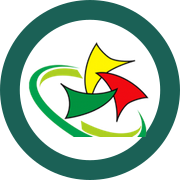
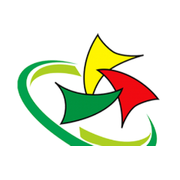
Dashboard Humas: ikon tanpa cincin, dan tanpa tulisan RSPUR
Cincin warna dibatalkan untuk dashboard ini; yang dipakai kembali
lambangnya saja dengan latar tembus pandang. Manajemen Bisnis
tetap bercincin biru, dan itu sudah cukup membedakan keduanya —
satu bercincin, satu tidak.

Tulisan kecil "RSPUR" di atas nama unit pada kepala halaman
dihapus. Logo rumah sakitnya sudah terpampang tepat di sebelahnya,
jadi tulisan itu hanya mengulang apa yang sudah terlihat.

diff --git a/src/app/(aplikasi)/layout.tsx b/src/app/(aplikasi)/layout.tsx
@@ -75,12 +75,7 @@ export default async function LayoutAplikasi({ children }: LayoutProps<"/">) {
                 className="h-9 w-auto max-w-[7rem] object-contain"
               />
             )}
-            <span className="block">
-              <span className="block text-[0.65rem] font-semibold uppercase tracking-[0.16em] text-tinta-3">
-                RSPUR
-              </span>
-              <span className="block font-medium">Humas &amp; Pemasaran</span>
-            </span>
+            <span className="block font-medium">Humas &amp; Pemasaran</span>
           </Link>
 
           <Navigasi menu={menu} />
